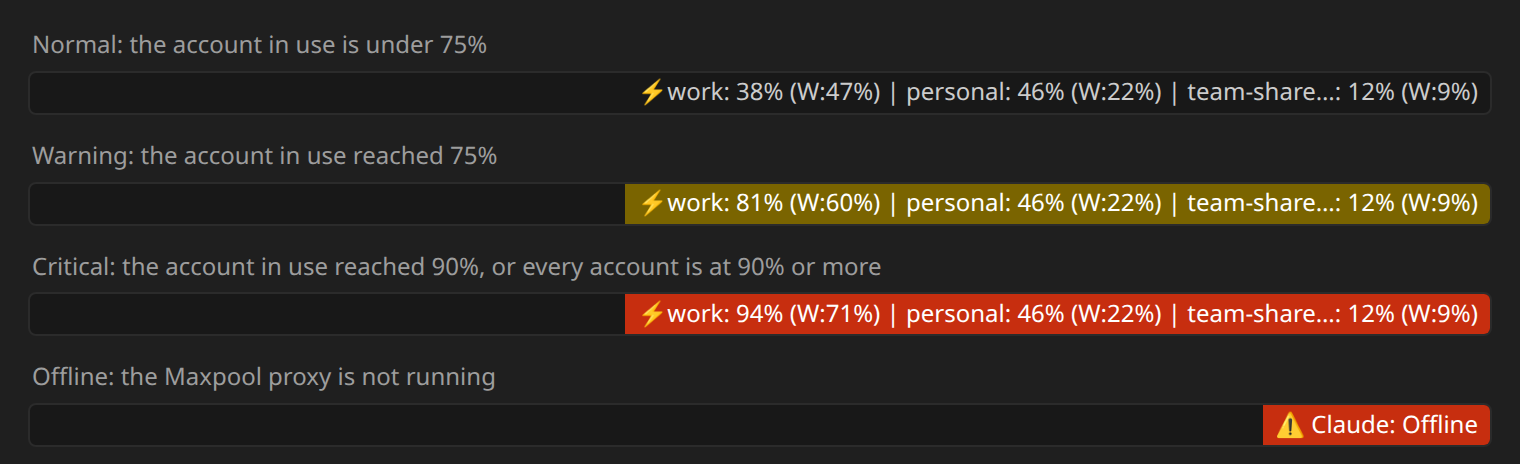
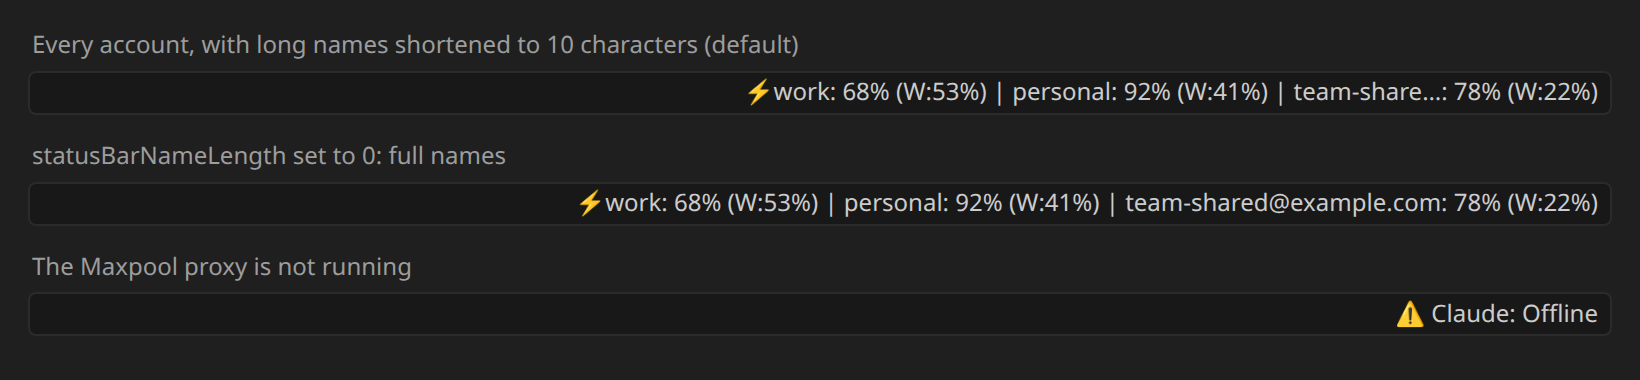
[ADD] v1.3.2 remove status bar color

diff --git a/extension.js b/extension.js
@@ -253,9 +253,6 @@ function formatReset(ts) {
 
 const fmtPct = (pct) => (pct == null ? '—' : `${pct}%`);
 
-// Highest known usage of an account (session or weekly); 0 when neither is reported.
-const peakUsage = (acc) => Math.max(0, ...[acc.sessionUsed, acc.weeklyUsed].filter((n) => n != null));
-
 // Severity is carried by theme color plus icon, never by color alone.
 function usageLevel(pct) {
   if (pct >= 90) return { color: 'var(--vscode-charts-red)', icon: ' $(error)' };
@@ -313,40 +310,21 @@ function statusBadge(status) {
 
 // ── Status bar ──────────────────────────────────────────────
 
-// Every account is listed: "⚡name: 24% (W:4%)". Meters live in the hover card only.
+// Every account is listed: "⚡name: 24% (W:4%)". Plain text with no background color;
+// meters and severity colors live in the hover card only.
 function statusBarView(state, nameLength = 10) {
-  if (state.kind === 'loading') return { text: '$(sync~spin) Claude...', level: 'normal' };
-  if (state.kind === 'offline') return { text: '⚠ Claude: Offline', level: 'error' };
-  if (state.kind === 'empty') return { text: '⚠ Claude: No Acc', level: 'warning' };
+  if (state.kind === 'loading') return { text: '$(sync~spin) Claude...' };
+  if (state.kind === 'offline') return { text: '⚠ Claude: Offline' };
+  if (state.kind === 'empty') return { text: '⚠ Claude: No Acc' };
 
-  const { accounts } = state;
-  // Color follows the account in use, or turns red when every account is nearly exhausted
-  const activeAcc = accounts.find((a) => a.active) || accounts[0];
-  const activeMax = peakUsage(activeAcc);
-  const minAll = Math.min(...accounts.map(peakUsage));
-
-  let level = 'normal';
-  if (minAll >= 90 || activeMax >= 90) level = 'error';
-  else if (activeMax >= 75) level = 'warning';
-
-  const text = accounts
+  const text = state.accounts
     .map((acc) => {
       const name = truncateName(acc.name, nameLength);
       return `${acc.active ? '⚡' : ''}${name}: ${fmtPct(acc.sessionUsed)} (W:${fmtPct(acc.weeklyUsed)})`;
     })
     .join('  |  ');
 
-  return { text, level };
-}
-
-function applyBackgroundColor(item, level) {
-  if (level === 'error') {
-    item.backgroundColor = new vscode.ThemeColor('statusBarItem.errorBackground');
-  } else if (level === 'warning') {
-    item.backgroundColor = new vscode.ThemeColor('statusBarItem.warningBackground');
-  } else {
-    item.backgroundColor = undefined;
-  }
+  return { text };
 }
 
 // ── Tooltip ─────────────────────────────────────────────────
@@ -388,9 +366,13 @@ function buildTooltip(state, refreshing) {
 
   md.appendMarkdown('#### $(pulse) Maxpool Claude Quota\n\n');
   if (state.routing) {
-    md.appendMarkdown(
-      `<small>$(arrow-swap) ${escapeMd(state.routing)} · switch at **${state.switchAt}**</small>\n\n`
-    );
+    // "prefer <account> with automatic failover" → the account name in bold
+    const preferred = state.routing.match(/^prefer (.+) with automatic failover$/);
+    const routing = preferred
+      ? `prefer **${escapeMd(preferred[1])}** with automatic failover`
+      : escapeMd(state.routing);
+    const switchAt = state.switchAt ? ` · switch at **${state.switchAt}**` : '';
+    md.appendMarkdown(`<small>$(arrow-swap) ${routing}${switchAt}</small>\n\n`);
   }
 
   for (const acc of state.accounts) {
@@ -431,7 +413,6 @@ function activate(context) {
     const view = statusBarView(state, Number.isFinite(nameLength) ? Math.max(0, nameLength) : 10);
     item.text = manual && inFlight ? '$(sync~spin) Updating...' : view.text;
     item.tooltip = buildTooltip(state, Boolean(inFlight));
-    applyBackgroundColor(item, view.level);
   };
 
   // Overlapping calls (timer + manual refresh) share one run

diff --git a/README.md b/README.md
@@ -11,20 +11,22 @@ The extension reads usage from [Maxpool](https://github.com/2solarmax/maxpool), 
 - **All accounts at a glance.** The status bar lists every account in Maxpool with its session and weekly percentage (`⚡work: 68% (W:53%)`). The account Maxpool currently routes to is marked with `⚡`. Names longer than 10 characters are shortened (`team-share…`); the hover card always shows the full name.
 - **Reset times.** For each account, see when the 5-hour session and the weekly quota reset next. Times use a 24-hour clock in your machine's time zone, with a countdown (`19:10 · in 3h 52m`, `Fri 27/11 03:00 · in 5d 11h`).
 - **Hover card you can use.** Hover the status bar item for usage meters, reset times and token totals per account. You can move the mouse into the card, which has **Refresh now** and **Settings** buttons.
-- **Early warning.** The status bar item turns yellow at 75% and red at 90%. Inside the card, every meter is colored and gets a warning or error icon, so you never have to rely on color alone.
+- **Early warning in the card.** Inside the hover card, every meter turns yellow at 75% and red at 90% and gets a warning or error icon, so you never have to rely on color alone. The status bar itself stays plain text.
 - **Click to refresh.** Click the status bar item to fetch the latest numbers right away. Usage also refreshes on its own every 15 seconds by default.
 - **No setup.** The extension finds `maxpool` in common install locations, including `nvm`, and reads the proxy address from Maxpool's own config.
 
 ## Status bar
 
-![The status bar item in its normal, warning, critical and offline states](images/screenshots/status-bar.png)
+![The status bar item listing three accounts, and the offline message](images/screenshots/status-bar.png)
 
-| State | When |
+The status bar item is plain text with no background color, so it blends in with the rest of the status bar.
+
+| Text | Meaning |
 | :--- | :--- |
-| Normal | The account in use is below 75% of its session and weekly quota |
-| Warning (yellow) | The account in use reached 75% |
-| Critical (red) | The account in use reached 90%, or every account is at 90% or more |
-| Offline | The Maxpool proxy is not reachable |
+| `⚡work: 68% (W:53%)` | Session and weekly usage for each account. `⚡` marks the account Maxpool routes to. |
+| `—` | Maxpool doesn't report that number for the account |
+| `⚠ Claude: Offline` | The Maxpool proxy is not reachable |
+| `⚠ Claude: No Acc` | Maxpool has no Claude accounts yet |
 
 ## Hover card
 
